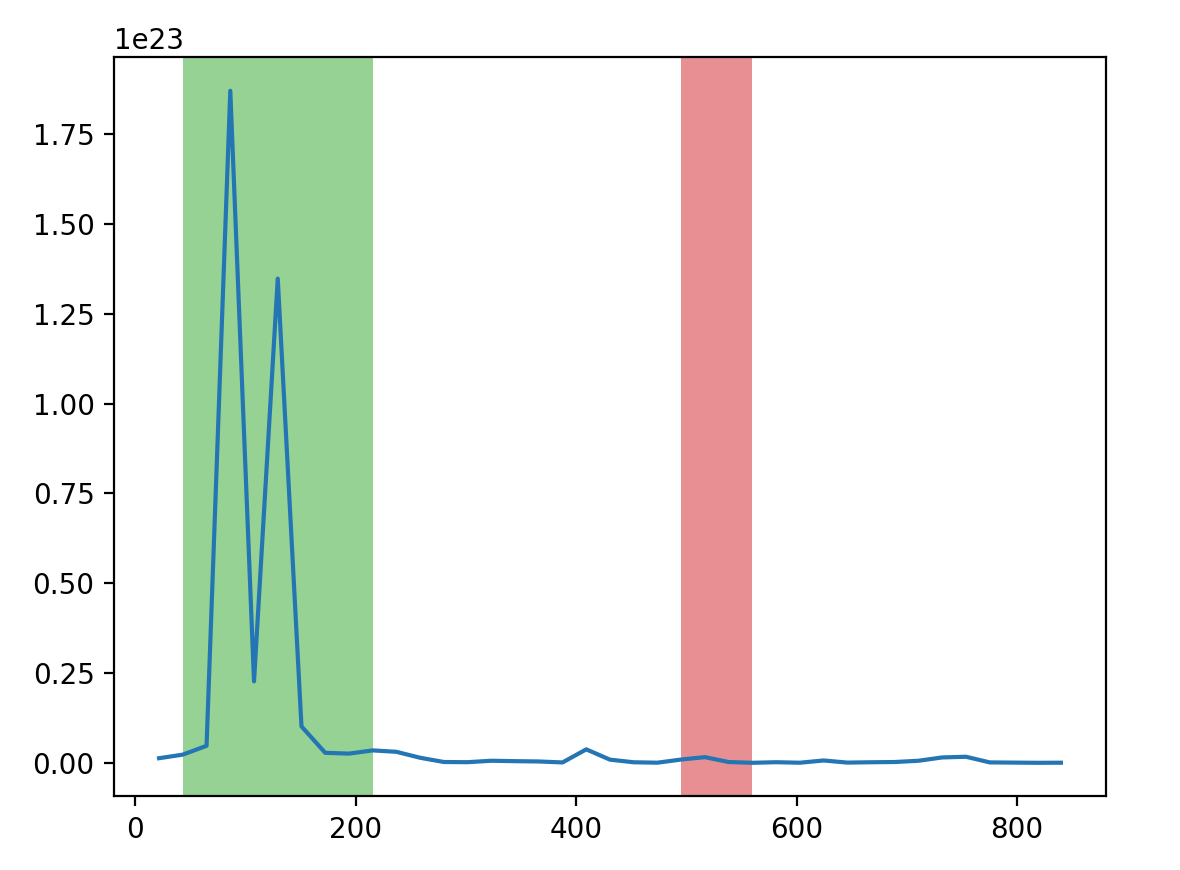
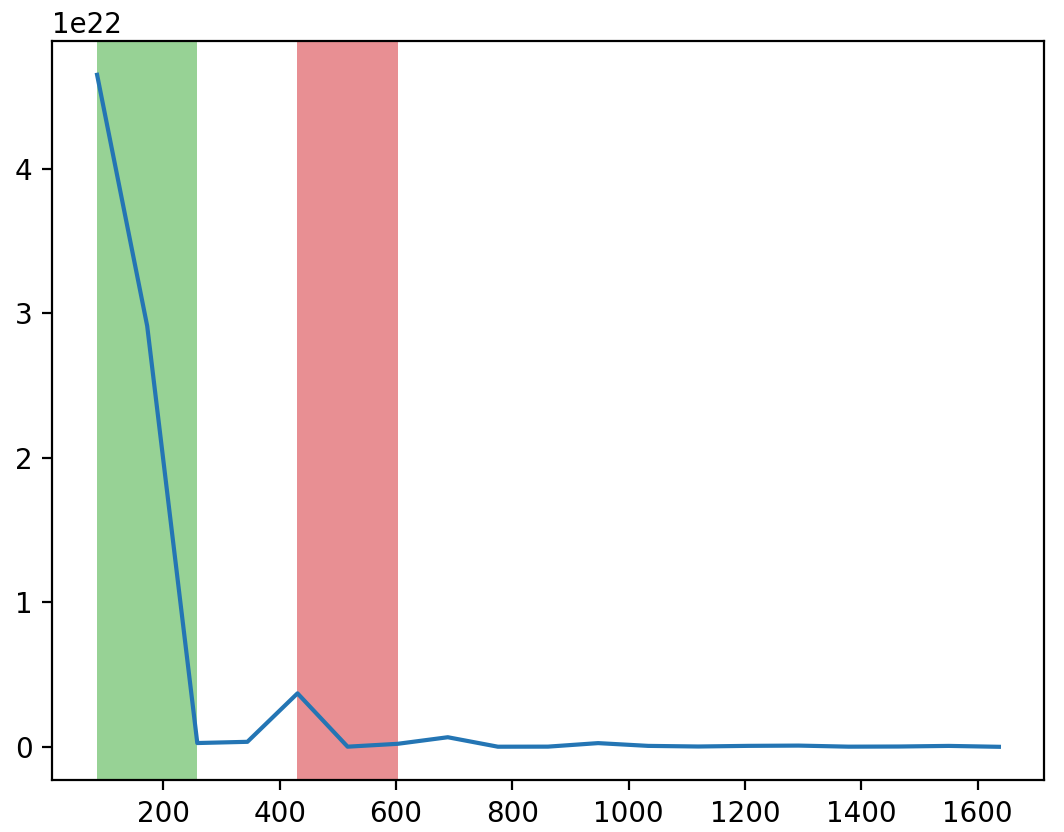
aggiunto video e modificati grafici frequenze

diff --git a/docs/2018-05-21-Pi-cajon/index.html b/docs/2018-05-21-Pi-cajon/index.html
@@ -65,8 +65,8 @@
   <meta property="og:type" content="website" />
 
   
-  <meta property="og:url" content="http://raffaweb.github.io/sensori/2018-05-21-Pi-cajon/" />
-  <link rel="canonical" href="http://raffaweb.github.io/sensori/2018-05-21-Pi-cajon/" />
+  <meta property="og:url" content="http://localhost:2222/2018-05-21-Pi-cajon/" />
+  <link rel="canonical" href="http://localhost:2222/2018-05-21-Pi-cajon/" />
   
 
   
@@ -107,7 +107,7 @@
         <span class="icon-bar"></span>
       </button>
       
-        <a class="navbar-brand navbar-brand-logo" href="http://raffaweb.github.io/sensori"><img src="/sensori/img/signal.png"/></a>
+        <a class="navbar-brand navbar-brand-logo" href="http://localhost:2222"><img src="/sensori/img/signal.png"/></a>
       
     </div>
 
@@ -306,7 +306,7 @@ Subito dopo mettiamo da parte i 1024 campioni successivi, relativi al canale cor
 
 <figure>
     <figcaption>Frontale</figcaption>
-    <img src="/sensori/img/picajon/front.png" style="width: 600px; margin-bottom: 30px" />
+    <img src="/sensori/img/picajon/front.png" style="width: 580px; margin-bottom: 30px" />
 </figure>
 
 <figure>
@@ -316,13 +316,13 @@ Subito dopo mettiamo da parte i 1024 campioni successivi, relativi al canale cor
 
 <p>Si nota come i PSD dei colpi frontali sono molto diversi da quelli laterali. Dopo svariati esperimenti abbiamo scelto quelle che secondo noi sono le frequenze (ovvero indici del vettore corrispondente al PSD) significative da utilizzare per identificare la provenienza del colpo.</p>
 <ul>
-  <li>Fascia verde: 43 - 215 Hz</li>
-  <li>Fascia rossa: 215 - 559 Hz</li>
+  <li>Fascia verde: 86 - 172 Hz</li>
+  <li>Fascia rossa: 258 - 344 Hz</li>
 </ul>
 
 <p>Utilizzando la formula sottostante e confrontando il risultato <code class="highlighter-rouge">ratio</code>  con una soglia siamo stati in grando di identificare la provenienza del colpo:</p>
 
-<div class="highlighter-rouge"><pre class="highlight"><code>ratio = np.sum(psd[2:10]) / np.sum(psd[23:26])
+<div class="highlighter-rouge"><pre class="highlight"><code>ratio = np.sum(psd[1:3]) / np.sum(psd[5:7])
 </code></pre>
 </div>
 
@@ -378,6 +378,15 @@ Alcune delle sue principali caratteristiche sono:</p>
 
 <p><img src="/sensori/img/picajon/grafico_software.png" style="margin-bottom: 30px; display: block; margin-left: auto; margin-right: auto;" /></p>
 
+<h2 id="dimostrazione">Dimostrazione</h2>
+<p>Ecco una dimostrazione del risultato conseguito</p>
+
+<!-- blank line -->
+<figure class="video_container">
+  <iframe src="https://www.youtube.com/embed/a2xU7fQQuQA" frameborder="0" allowfullscreen="true" width="640px" height="360px"> </iframe>
+</figure>
+<!-- blank line -->
+
       </article>
 
       
@@ -404,7 +413,7 @@ Alcune delle sue principali caratteristiche sono:</p>
 
   
   <!--- Share on Twitter -->
-    <a href="https://twitter.com/intent/tweet?text=PiCajon+http://raffaweb.github.io/sensori/2018-05-21-Pi-cajon/"
+    <a href="https://twitter.com/intent/tweet?text=PiCajon+http://localhost:2222/2018-05-21-Pi-cajon/"
       class="btn btn-social-icon btn-twitter" title="Share on Twitter">
       <span class="fa fa-fw fa-twitter" aria-hidden="true"></span>
       <span class="sr-only">Twitter</span>
@@ -413,7 +422,7 @@ Alcune delle sue principali caratteristiche sono:</p>
 
   
   <!--- Share on Facebook -->
-    <a href="https://www.facebook.com/sharer/sharer.php?u=http://raffaweb.github.io/sensori/2018-05-21-Pi-cajon/"
+    <a href="https://www.facebook.com/sharer/sharer.php?u=http://localhost:2222/2018-05-21-Pi-cajon/"
       class="btn btn-social-icon btn-facebook" title="Share on Facebook">
       <span class="fa fa-fw fa-facebook" aria-hidden="true"></span>
       <span class="sr-only">Facebook</span>
@@ -424,7 +433,7 @@ Alcune delle sue principali caratteristiche sono:</p>
 
   
   <!--- Share on LinkedIn -->
-    <a href="https://www.linkedin.com/shareArticle?mini=true&url=http://raffaweb.github.io/sensori/2018-05-21-Pi-cajon/"
+    <a href="https://www.linkedin.com/shareArticle?mini=true&url=http://localhost:2222/2018-05-21-Pi-cajon/"
       class="btn btn-social-icon btn-linkedin" title="Share on LinkedIn">
       <span class="fa fa-fw fa-linkedin" aria-hidden="true"></span>
       <span class="sr-only">LinkedIn</span>

diff --git a/docs/2015-02-28-test-markdown/index.html b/docs/2015-02-28-test-markdown/index.html
@@ -65,8 +65,8 @@
   <meta property="og:type" content="website" />
 
   
-  <meta property="og:url" content="http://raffaweb.github.io/sensori/2015-02-28-test-markdown/" />
-  <link rel="canonical" href="http://raffaweb.github.io/sensori/2015-02-28-test-markdown/" />
+  <meta property="og:url" content="http://localhost:2222/2015-02-28-test-markdown/" />
+  <link rel="canonical" href="http://localhost:2222/2015-02-28-test-markdown/" />
   
 
   
@@ -107,7 +107,7 @@
         <span class="icon-bar"></span>
       </button>
       
-        <a class="navbar-brand navbar-brand-logo" href="http://raffaweb.github.io/sensori"><img src="/sensori/img/signal.png"/></a>
+        <a class="navbar-brand navbar-brand-logo" href="http://localhost:2222"><img src="/sensori/img/signal.png"/></a>
       
     </div>
 
@@ -311,7 +311,7 @@ foo(3)
 
   
   <!--- Share on Twitter -->
-    <a href="https://twitter.com/intent/tweet?text=Altro+progetto+http://raffaweb.github.io/sensori/2015-02-28-test-markdown/"
+    <a href="https://twitter.com/intent/tweet?text=Altro+progetto+http://localhost:2222/2015-02-28-test-markdown/"
       class="btn btn-social-icon btn-twitter" title="Share on Twitter">
       <span class="fa fa-fw fa-twitter" aria-hidden="true"></span>
       <span class="sr-only">Twitter</span>
@@ -320,7 +320,7 @@ foo(3)
 
   
   <!--- Share on Facebook -->
-    <a href="https://www.facebook.com/sharer/sharer.php?u=http://raffaweb.github.io/sensori/2015-02-28-test-markdown/"
+    <a href="https://www.facebook.com/sharer/sharer.php?u=http://localhost:2222/2015-02-28-test-markdown/"
       class="btn btn-social-icon btn-facebook" title="Share on Facebook">
       <span class="fa fa-fw fa-facebook" aria-hidden="true"></span>
       <span class="sr-only">Facebook</span>
@@ -331,7 +331,7 @@ foo(3)
 
   
   <!--- Share on LinkedIn -->
-    <a href="https://www.linkedin.com/shareArticle?mini=true&url=http://raffaweb.github.io/sensori/2015-02-28-test-markdown/"
+    <a href="https://www.linkedin.com/shareArticle?mini=true&url=http://localhost:2222/2015-02-28-test-markdown/"
       class="btn btn-social-icon btn-linkedin" title="Share on LinkedIn">
       <span class="fa fa-fw fa-linkedin" aria-hidden="true"></span>
       <span class="sr-only">LinkedIn</span>

diff --git a/docs/tags/index.html b/docs/tags/index.html
@@ -63,8 +63,8 @@
   <meta property="og:type" content="website" />
 
   
-  <meta property="og:url" content="http://raffaweb.github.io/sensori/tags/" />
-  <link rel="canonical" href="http://raffaweb.github.io/sensori/tags/" />
+  <meta property="og:url" content="http://localhost:2222/tags/" />
+  <link rel="canonical" href="http://localhost:2222/tags/" />
   
 
   
@@ -105,7 +105,7 @@
         <span class="icon-bar"></span>
       </button>
       
-        <a class="navbar-brand navbar-brand-logo" href="http://raffaweb.github.io/sensori"><img src="/sensori/img/signal.png"/></a>
+        <a class="navbar-brand navbar-brand-logo" href="http://localhost:2222"><img src="/sensori/img/signal.png"/></a>
       
     </div>
 
@@ -170,7 +170,7 @@
         &nbsp;raspberry&nbsp;(1)
     </h2>
     <div class="post-list"><div class="tag-entry">
-                <a href="http://raffaweb.github.io/sensori/2018-05-21-Pi-cajon/">PiCajon</a>
+                <a href="http://localhost:2222/2018-05-21-Pi-cajon/">PiCajon</a>
                 <div class="entry-date">
                     <time datetime="2018-05-21T00:00:00-07:00">May 21, 2018</time>
                 </div>
@@ -179,7 +179,7 @@
         &nbsp;signal&nbsp;(1)
     </h2>
     <div class="post-list"><div class="tag-entry">
-                <a href="http://raffaweb.github.io/sensori/2018-05-21-Pi-cajon/">PiCajon</a>
+                <a href="http://localhost:2222/2018-05-21-Pi-cajon/">PiCajon</a>
                 <div class="entry-date">
                     <time datetime="2018-05-21T00:00:00-07:00">May 21, 2018</time>
                 </div>
@@ -188,7 +188,7 @@
         &nbsp;test&nbsp;(1)
     </h2>
     <div class="post-list"><div class="tag-entry">
-                <a href="http://raffaweb.github.io/sensori/2015-02-28-test-markdown/">Altro progetto</a>
+                <a href="http://localhost:2222/2015-02-28-test-markdown/">Altro progetto</a>
                 <div class="entry-date">
                     <time datetime="2015-02-28T00:00:00-08:00">February 28, 2015</time>
                 </div>

diff --git a/docs/insegnamento/index.html b/docs/insegnamento/index.html
@@ -65,8 +65,8 @@
   <meta property="og:type" content="website" />
 
   
-  <meta property="og:url" content="http://raffaweb.github.io/sensori/insegnamento/" />
-  <link rel="canonical" href="http://raffaweb.github.io/sensori/insegnamento/" />
+  <meta property="og:url" content="http://localhost:2222/insegnamento/" />
+  <link rel="canonical" href="http://localhost:2222/insegnamento/" />
   
 
   
@@ -107,7 +107,7 @@
         <span class="icon-bar"></span>
       </button>
       
-        <a class="navbar-brand navbar-brand-logo" href="http://raffaweb.github.io/sensori"><img src="/sensori/img/signal.png"/></a>
+        <a class="navbar-brand navbar-brand-logo" href="http://localhost:2222"><img src="/sensori/img/signal.png"/></a>
       
     </div>
 

diff --git a/docs/404.html b/docs/404.html
@@ -70,8 +70,8 @@
   <meta property="og:type" content="website" />
 
   
-  <meta property="og:url" content="http://raffaweb.github.io/sensori/404" />
-  <link rel="canonical" href="http://raffaweb.github.io/sensori/404" />
+  <meta property="og:url" content="http://localhost:2222/404" />
+  <link rel="canonical" href="http://localhost:2222/404" />
   
 
   
@@ -119,7 +119,7 @@
         <span class="icon-bar"></span>
       </button>
       
-        <a class="navbar-brand navbar-brand-logo" href="http://raffaweb.github.io/sensori"><img src="/sensori/img/signal.png"/></a>
+        <a class="navbar-brand navbar-brand-logo" href="http://localhost:2222"><img src="/sensori/img/signal.png"/></a>
       
     </div>
 

diff --git a/docs/index.html b/docs/index.html
@@ -65,8 +65,8 @@
   <meta property="og:type" content="website" />
 
   
-  <meta property="og:url" content="http://raffaweb.github.io/sensori/" />
-  <link rel="canonical" href="http://raffaweb.github.io/sensori/" />
+  <meta property="og:url" content="http://localhost:2222/" />
+  <link rel="canonical" href="http://localhost:2222/" />
   
 
   
@@ -107,7 +107,7 @@
         <span class="icon-bar"></span>
       </button>
       
-        <a class="navbar-brand navbar-brand-logo" href="http://raffaweb.github.io/sensori"><img src="/sensori/img/signal.png"/></a>
+        <a class="navbar-brand navbar-brand-logo" href="http://localhost:2222"><img src="/sensori/img/signal.png"/></a>
       
     </div>
 

diff --git a/_posts/2018-05-21-Pi-cajon.md b/_posts/2018-05-21-Pi-cajon.md
@@ -160,7 +160,7 @@ Qui in basso potete vedere i psd delle due zone che ci interessa poter distingue
     <figcaption>Frontale</figcaption>
     <img
     src="/sensori/img/picajon/front.png"
-    style="width: 600px; margin-bottom: 30px"/>
+    style="width: 580px; margin-bottom: 30px"/>
 </figure>
 
 <figure>
@@ -172,14 +172,14 @@ Qui in basso potete vedere i psd delle due zone che ci interessa poter distingue
 
 
 Si nota come i PSD dei colpi frontali sono molto diversi da quelli laterali. Dopo svariati esperimenti abbiamo scelto quelle che secondo noi sono le frequenze (ovvero indici del vettore corrispondente al PSD) significative da utilizzare per identificare la provenienza del colpo.
-* Fascia verde: 43 - 215 Hz
-* Fascia rossa: 215 - 559 Hz
+* Fascia verde: 86 - 172 Hz
+* Fascia rossa: 258 - 344 Hz
 
 
 Utilizzando la formula sottostante e confrontando il risultato ```ratio```  con una soglia siamo stati in grando di identificare la provenienza del colpo:
 
 ```
-ratio = np.sum(psd[2:10]) / np.sum(psd[23:26])
+ratio = np.sum(psd[1:3]) / np.sum(psd[5:7])
 ```
 
 Ora non resta che "suonare" il campione corrispondente.
@@ -229,3 +229,12 @@ Nell'immagine sottostante potete vedere il *workflow* del software, dove i *box*
 src="/sensori/img/picajon/grafico_software.png"
 style="margin-bottom: 30px; display: block; margin-left: auto;
 margin-right: auto;"/>
+
+## Dimostrazione
+Ecco una dimostrazione del risultato conseguito
+
+<!-- blank line -->
+<figure class="video_container">
+  <iframe src="https://www.youtube.com/embed/a2xU7fQQuQA" frameborder="0" allowfullscreen="true" width="640px" height="360px"> </iframe>
+</figure>
+<!-- blank line -->
